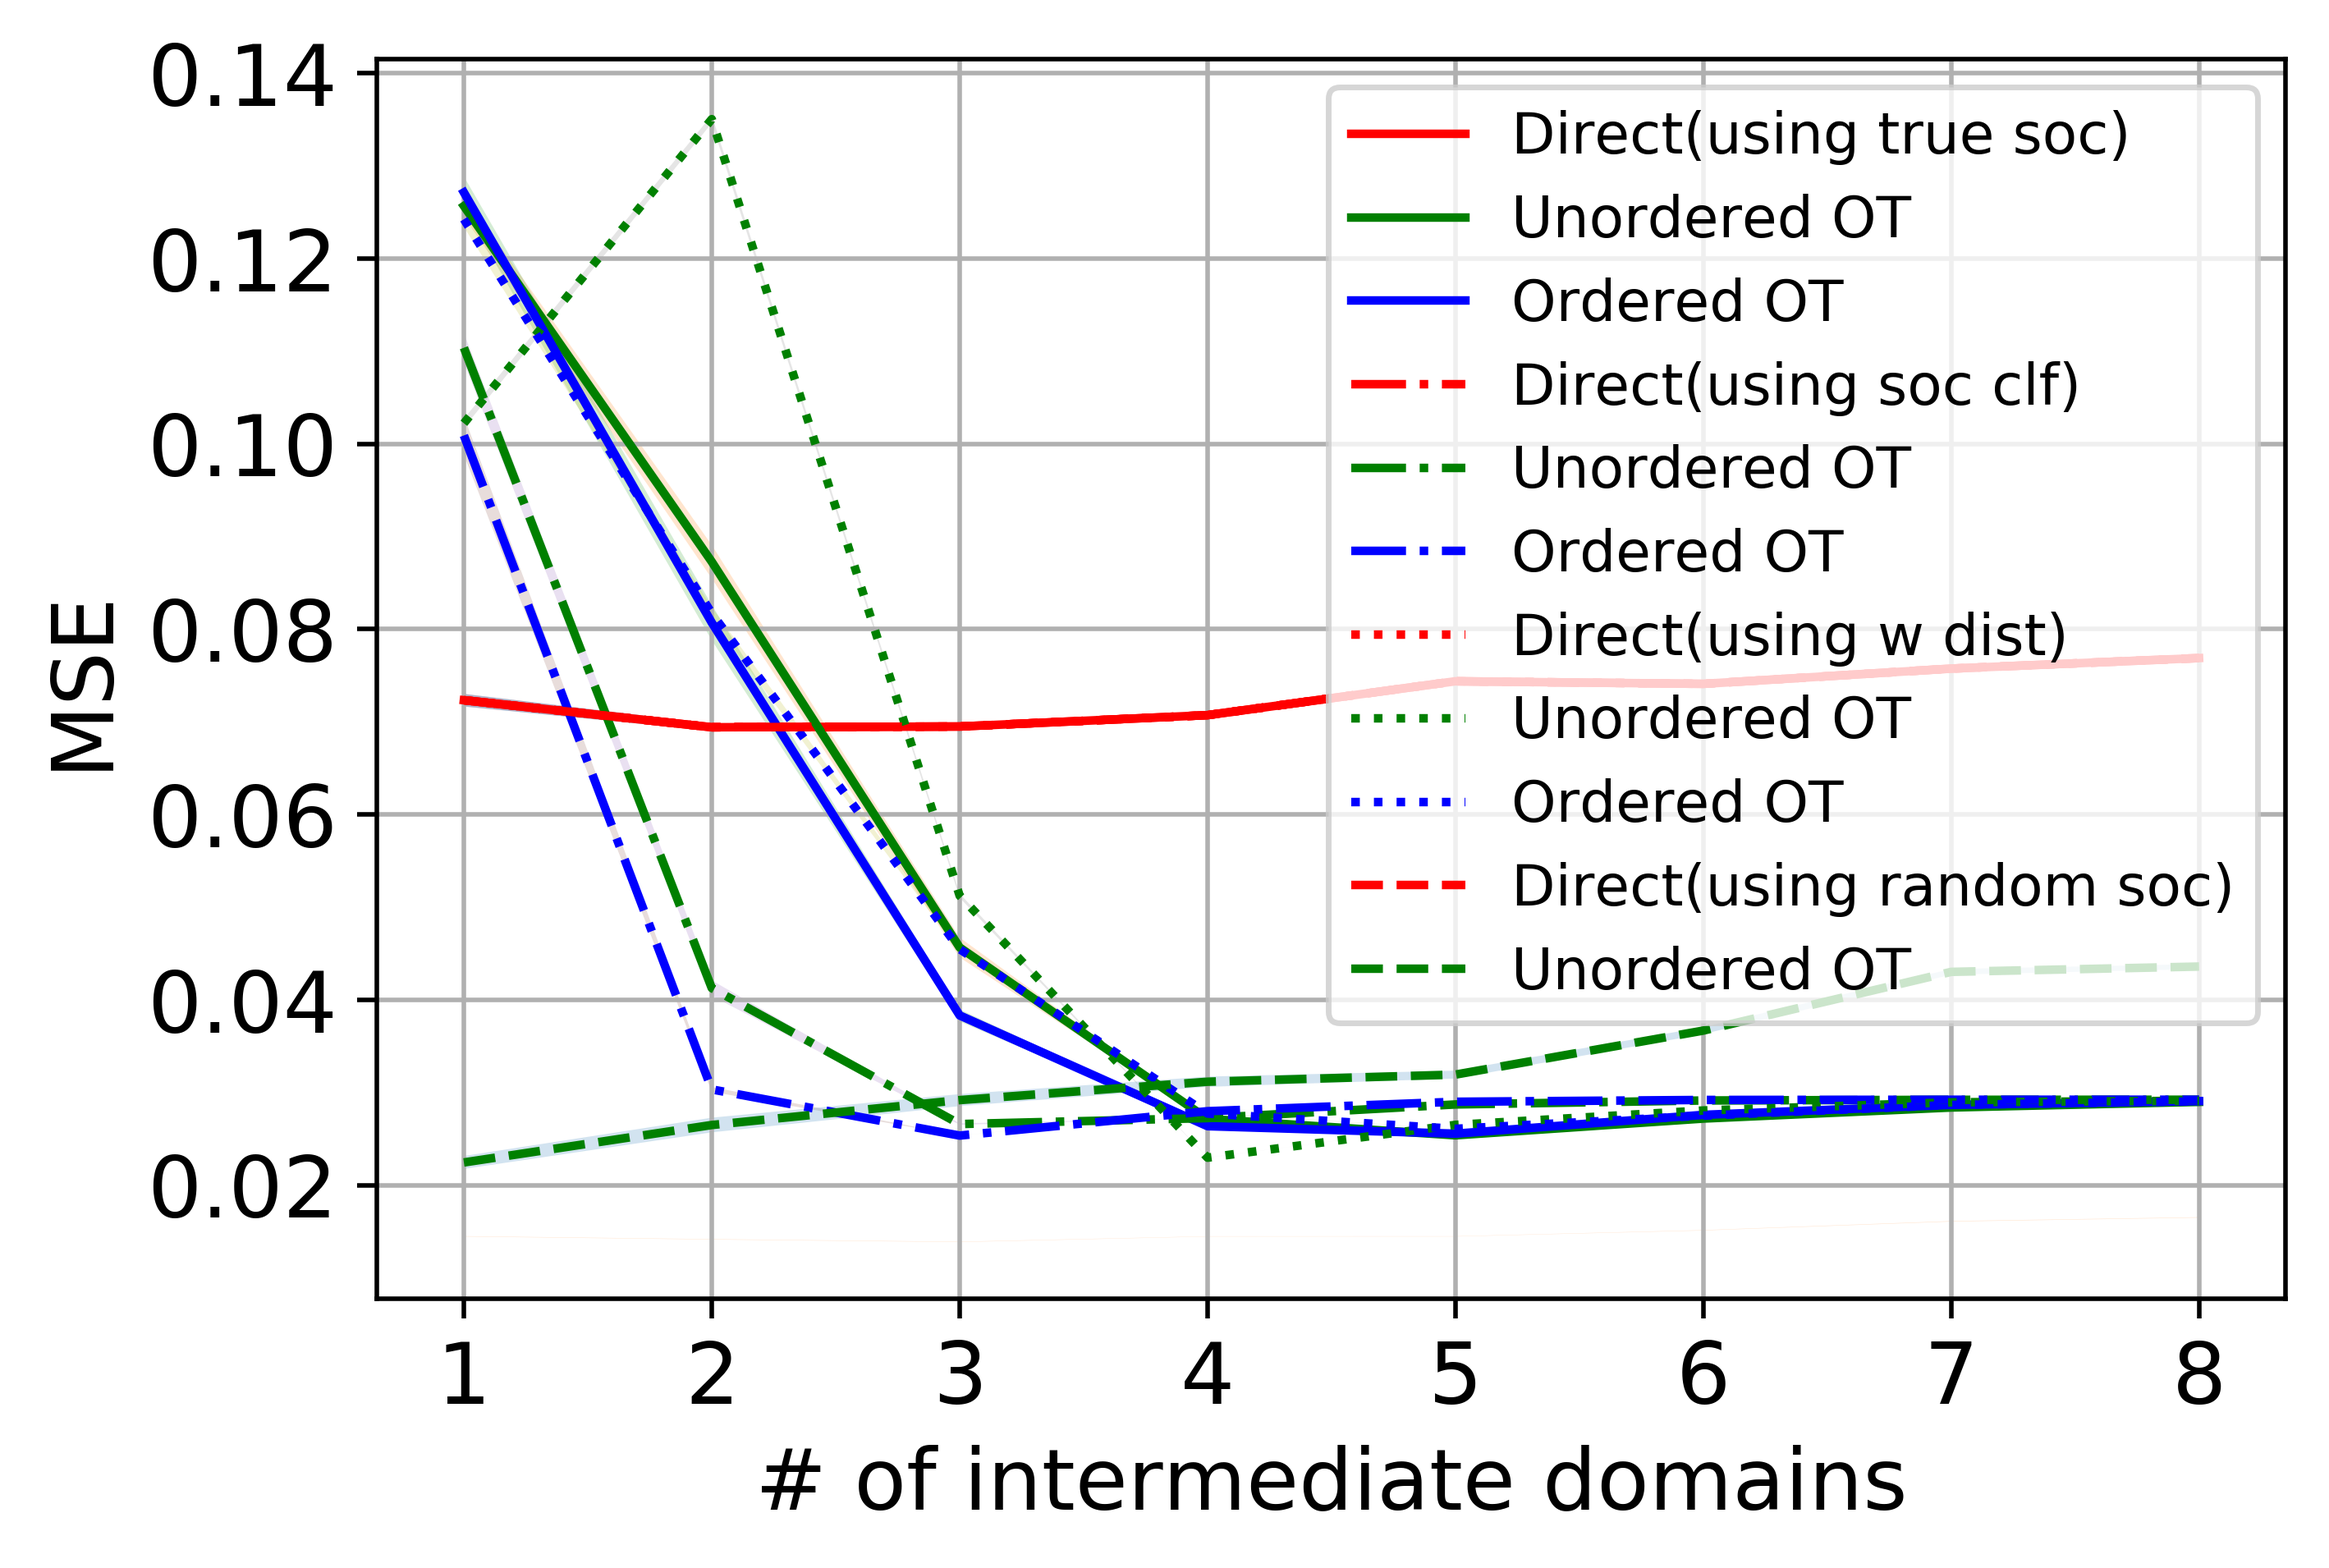
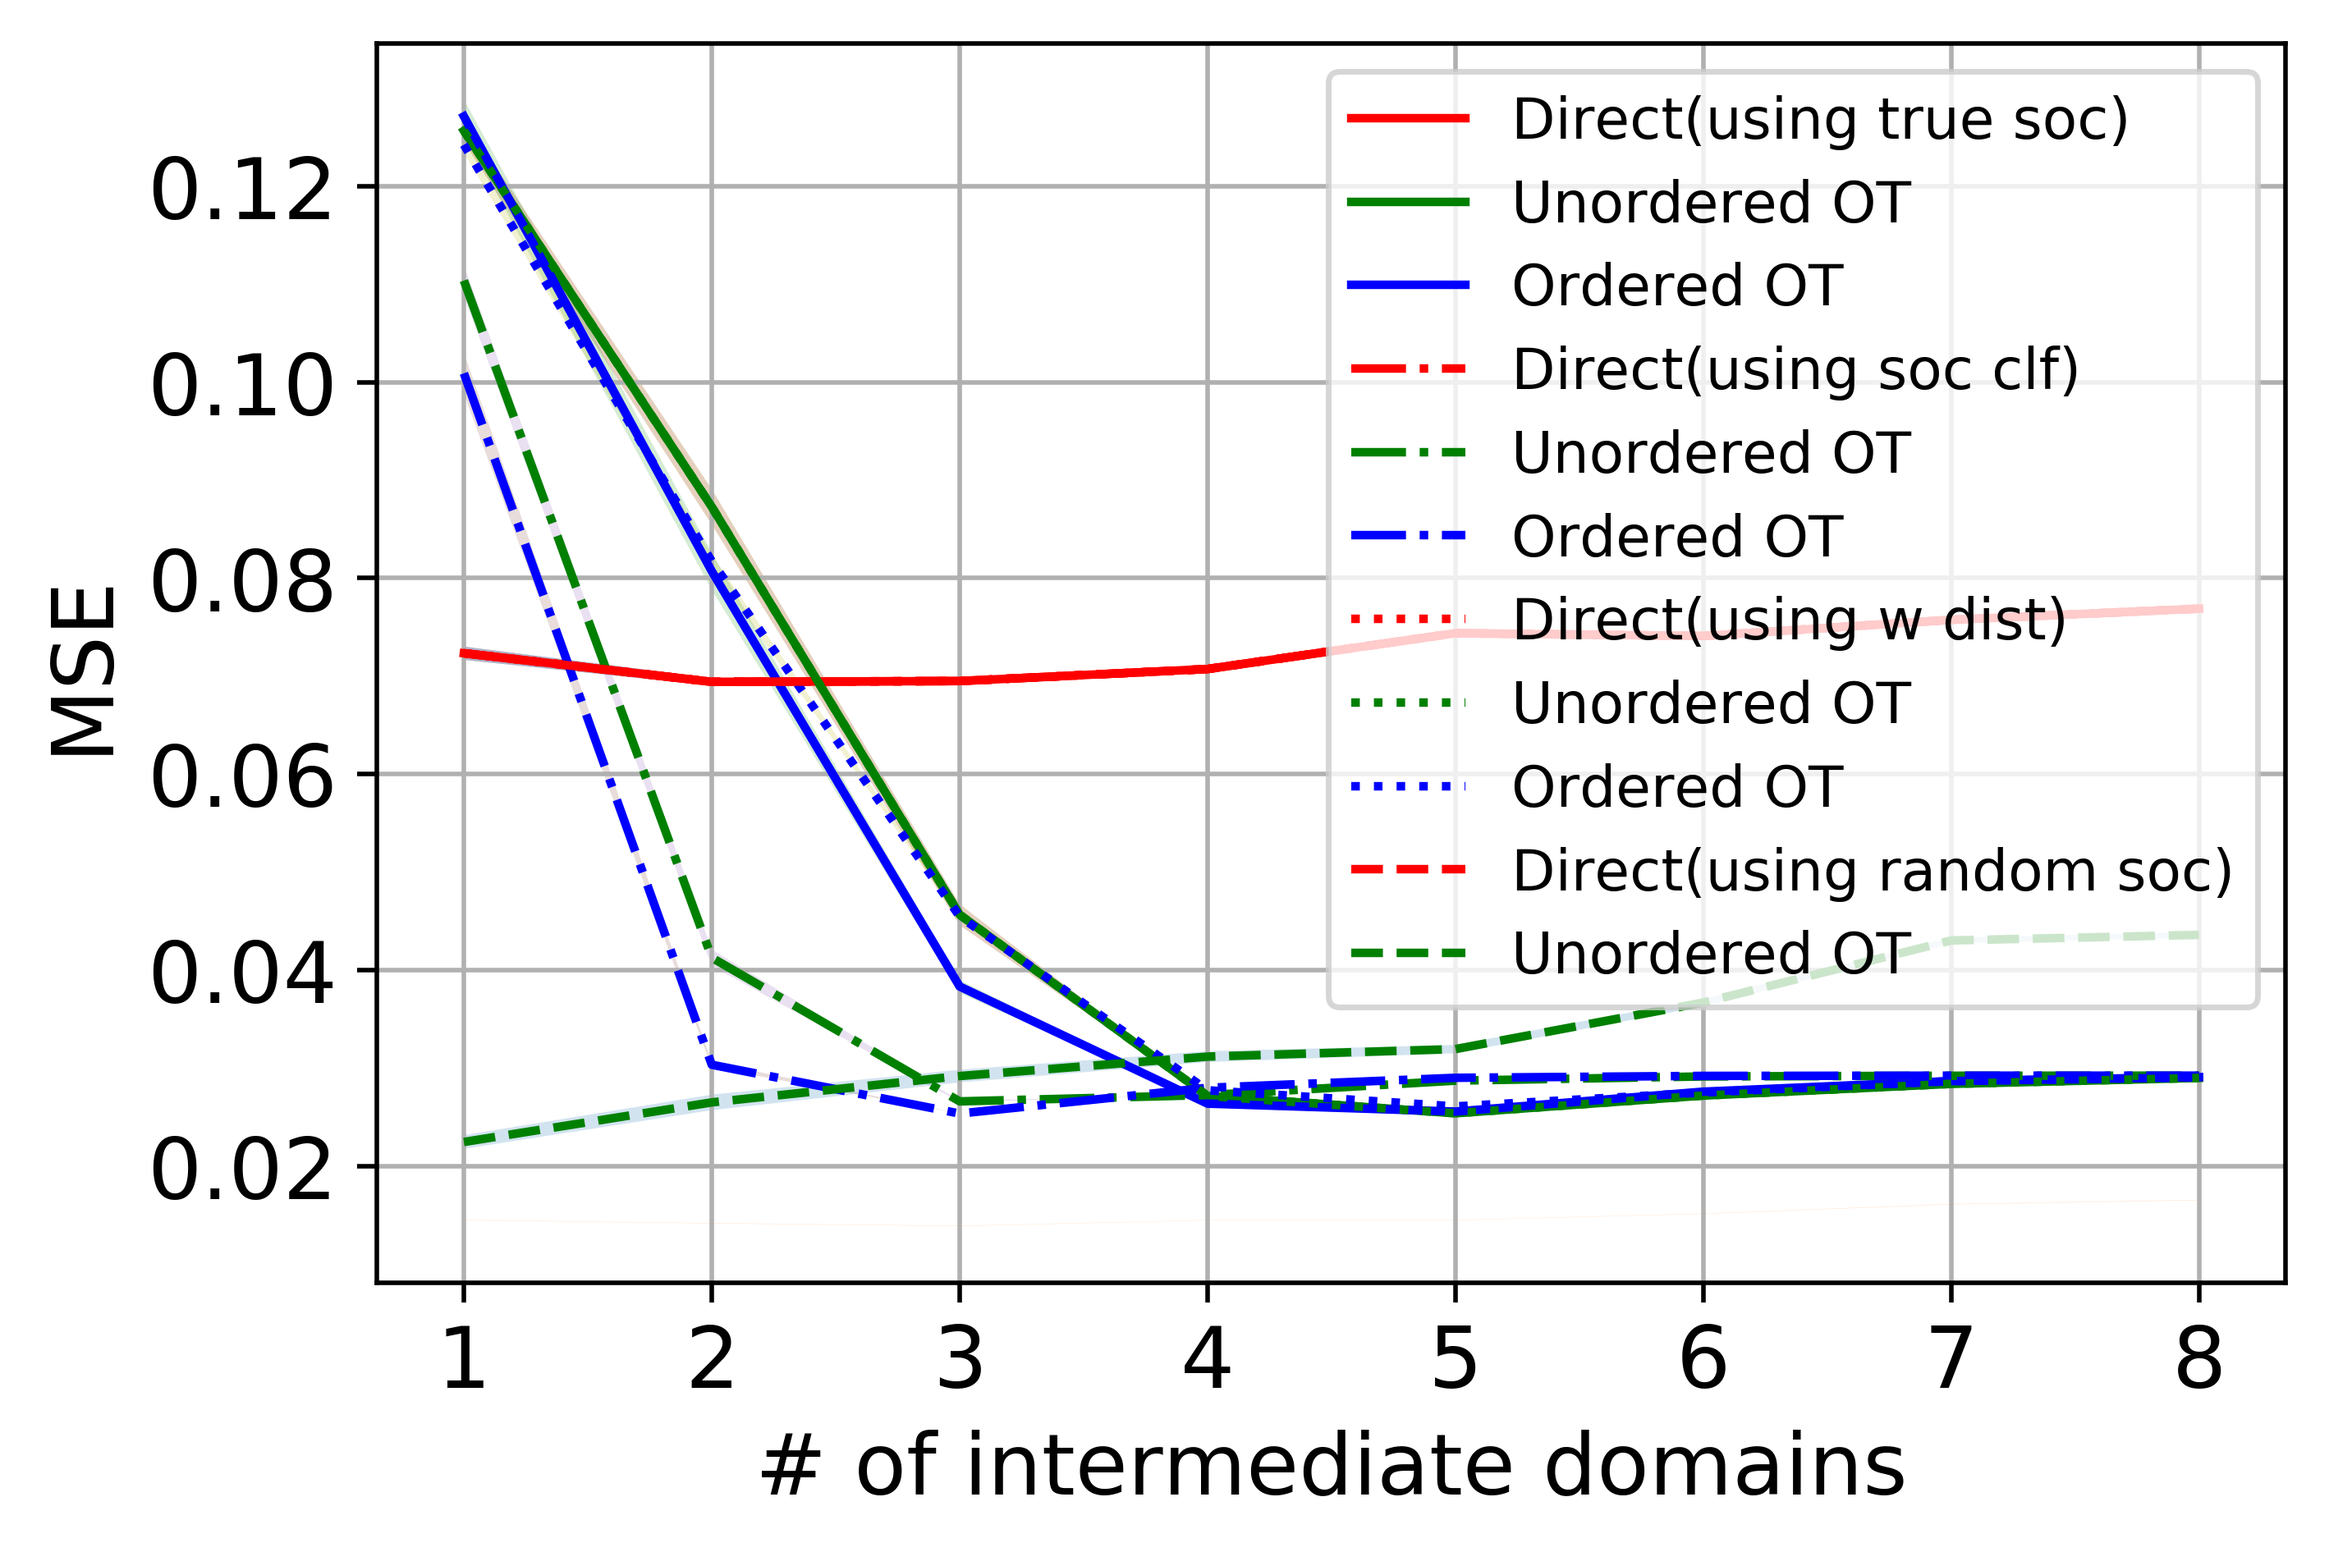
add mix soc

diff --git a/data.py b/data.py
@@ -245,13 +245,24 @@ def load_battery_data_split(n_samples_source = 67, n_samples_targets = 10, time_
     Xt_all_domain = []
     yt_all_domain = []
 
-    for i in [10, 15, 20, 25, 30, 35, 40, 45, 50]:
+    Xt_all_domain_mix = []
+    yt_all_domain_mix = []
+
+    time_all_list = [10, 15, 20, 25, 30, 35, 40, 45, 50]
+
+    for idx, i in enumerate(time_all_list):
 
         if i == time_series[-1]:
             continue
 
         Xt_true = xt0[yt0 == i]
         yt_true = yt_value[yt0 == i]
+
+        Xt_before = xt0[yt0 == time_all_list[idx - 1]] if idx > 0 else []
+        yt_before = yt_value[yt0 == time_all_list[idx - 1]] if idx > 0 else []
+
+        xt_after = xt0[yt0 == time_all_list[idx + 1]] if idx < len(time_all_list) - 1 else []
+        yt_after = yt_value[yt0 == time_all_list[idx + 1]] if idx < len(time_all_list) - 1 else []
         rand = np.arange(Xt_true.shape[0])
         if shuffle_or_not:
             np.random.seed(random_seed * i)
@@ -264,6 +275,73 @@ def load_battery_data_split(n_samples_source = 67, n_samples_targets = 10, time_
         Xt_all_domain.append(X)
         yt_all_domain.append(y)
 
+        if idx > 0 and idx < len(time_all_list) - 1:
+            t_cnt = int(n_samples_targets * 0.6)
+            t_before = int(n_samples_targets * 0.2)
+            t_after = int(n_samples_targets * 0.2)
+            rand1 = np.arange(Xt_true.shape[0])
+            rand2 = np.arange(Xt_before.shape[0])
+            rand3 = np.arange(xt_after.shape[0])
+
+            if shuffle_or_not:
+                np.random.seed(random_seed * i)
+                np.random.shuffle(rand1)
+                np.random.shuffle(rand2)
+                np.random.shuffle(rand3)
+            
+            x0 = Xt_true[rand1[:t_cnt]]
+            y0 = yt_true[rand1[:t_cnt]]
+            x1 = Xt_before[rand2[:t_before]]
+            y1 = yt_before[rand2[:t_before]]
+            x2 = xt_after[rand3[:t_after]]
+            y2 = yt_after[rand3[:t_after]]
+            X = np.concatenate((x0, x1, x2))
+            y = np.concatenate((y0, y1, y2))
+
+            Xt_all_domain_mix.append(X)
+            yt_all_domain_mix.append(y)
+        
+        elif idx == 0:
+            t_cnt = int(n_samples_targets * 0.6)
+            t_after = int(n_samples_targets * 0.4)
+            rand1 = np.arange(Xt_true.shape[0])
+            rand2 = np.arange(xt_after.shape[0])
+            
+            if shuffle_or_not:
+                np.random.seed(random_seed * i)
+                np.random.shuffle(rand1)
+                np.random.shuffle(rand2)
+            
+            x0 = Xt_true[rand1[:t_cnt]]
+            y0 = yt_true[rand1[:t_cnt]]
+            x1 = xt_after[rand2[:t_after]]
+            y1 = yt_after[rand2[:t_after]]
+            X = np.concatenate((x0, x1))
+            y = np.concatenate((y0, y1))
+
+            Xt_all_domain_mix.append(X)
+            yt_all_domain_mix.append(y)
+        
+        else:
+            t_cnt = int(n_samples_targets * 0.6)
+            t_before = int(n_samples_targets * 0.4)
+            rand1 = np.arange(Xt_true.shape[0])
+            rand2 = np.arange(Xt_before.shape[0])
+
+            if shuffle_or_not:
+                np.random.seed(random_seed * i)
+                np.random.shuffle(rand1)
+                np.random.shuffle(rand2)
+            
+            x0 = Xt_true[rand1[:t_cnt]]
+            y0 = yt_true[rand1[:t_cnt]]
+            x1 = Xt_before[rand2[:t_before]]
+            y1 = yt_before[rand2[:t_before]]
+            X = np.concatenate((x0, x1))
+            y = np.concatenate((y0, y1))
+
+            Xt_all_domain_mix.append(X)
+            yt_all_domain_mix.append(y)
 
     for i in time_series:
 
@@ -315,7 +393,7 @@ def load_battery_data_split(n_samples_source = 67, n_samples_targets = 10, time_
         Xt_random.append(X3)
         yt_random.append(y3) 
 
-    return Xs, ys, Xt_clf, yt_clf, Xt_all, yt_all, acc, Xt_, yt_, Xt_random, yt_random, Xt_all_domain, yt_all_domain
+    return Xs, ys, Xt_clf, yt_clf, Xt_all, yt_all, acc, Xt_, yt_, Xt_random, yt_random, Xt_all_domain, yt_all_domain, Xt_all_domain_mix, yt_all_domain_mix
 
 
 def load_seq_two_moon_data(n_samples_source, n_samples_targets, time_length, noise=.1, max_angle=90):
@@ -346,7 +424,7 @@ def rotate_2d(X, theta):
 Xs, ys, Xt, yt, angles = load_seq_two_moon_data(150, 150, 10, max_angle=90, noise=0.1)
 Xs1, ys1, Xt1, yt1, Xt_all, yt_all = load_battery_data()
 # Xs2, ys2, Xt2, yt2, Xtest, ytest = load_mnist_data(dir_path='/Users/liuhanbing/Desktop/code/RotNIST/data/')
-Xs, ys, Xt, yt, Xt_all, yt_all, acc, Xt_, yt_, Xt_random, yt_random, Xt_all_domain, yt_all_domain = load_battery_data_split(time_series=[10, 25, 30, 50])
+Xs, ys, Xt, yt, Xt_all, yt_all, acc, Xt_, yt_, Xt_random, yt_random, Xt_all_domain, yt_all_domain, _, _ = load_battery_data_split(time_series=[10, 25, 30, 50])
 # print(Xtest[0].shape)
 
 # print(ys.shape)

diff --git a/main.py b/main.py
@@ -24,9 +24,13 @@ def test_cdot_methods(methods, time_reg_vector, n_samples_source, n_samples_targ
     
     # Xs, ys, Xt, yt, Xt_all, yt_all = load_battery_data(n_samples_source, n_samples_targets, time_length, True)
     # Xs, ys, Xt, yt, Xt_all, yt_all = load_battery_data_random(n_samples_source, n_samples_targets, time_series, shuffle_or_not = True, random_seed = random_seed)
-    Xs, ys, Xt, yt, Xt_all, yt_all, acc, Xt_true, yt_true, Xt_random, yt_random, Xt_all_domain, yt_all_domain = load_battery_data_split(n_samples_source, n_samples_targets, time_series, shuffle_or_not = True, random_seed = random_seed, train_set = 20)
+    Xs, ys, Xt, yt, Xt_all, yt_all, acc, Xt_true, yt_true, Xt_random, yt_random, Xt_all_domain, yt_all_domain, Xt_all_domain_mix, yt_all_domain_mix = load_battery_data_split(n_samples_source, n_samples_targets, time_series, shuffle_or_not = True, random_seed = random_seed, train_set = 20)
 
-    if sort_method == 'w_dis':
+    if sort_method == 'w_dis' or sort_method == 'mix':
+        if sort_method == 'mix':
+            Xt_all_domain = Xt_all_domain_mix
+            yt_all_domain = yt_all_domain_mix
+
         m = ot.dist(Xs, Xt_true[-1], metric='euclidean')
         m /= m.max()
         n1 = Xs.shape[0]
@@ -94,25 +98,34 @@ def test_cdot_methods(methods, time_reg_vector, n_samples_source, n_samples_targ
                 Xt = [x for _, x in sorted(zip(w1, Xt1), key=lambda x1: x1[0])]
                 yt = [x for _, x in sorted(zip(w1, yt1), key=lambda x1: x1[0])]
 
-        if if_sort == 0:
+            Xt.append(Xt_true[-1])
+            yt.append(yt_true[-1])
 
-            x_sample = []
-            y_sample = []
-            for i in range(t):
-                np.random.seed(1 * i)
-                rand = np.random.choice(len(Xt_all_domain), 1)
-                x_sample_per = np.array(Xt_all_domain[rand[0]])
-                y_sample_per = np.array(yt_all_domain[rand[0]])
-                
-                x_sample.append(x_sample_per)
-                y_sample.append(y_sample_per)
+        if if_sort == 0:
+            if sort_method == 'w_dis':
+                Xt = Xt_true
+                yt = yt_true
+            else:
+                rand = np.arange(len(Xt_all_domain))
+                np.random.seed(random_seed)
+                np.random.shuffle(rand)
+
+                x_sample = []
+                y_sample = []
+                for i in range(t):
+                    x_sample_per = np.array(Xt_all_domain[rand[i]])
+                    y_sample_per = np.array(yt_all_domain[rand[i]])
+                    
+                    x_sample.append(x_sample_per)
+                    y_sample.append(y_sample_per)
 
                 Xt = x_sample
                 yt = y_sample
 
-        Xt.append(Xt_true[-1])
-        yt.append(yt_true[-1])
-    
+                Xt.append(Xt_true[-1])
+                yt.append(yt_true[-1])
+            
+
     if sort_method == 'soc':
         Xt = Xt_true
         yt = yt_true
@@ -178,8 +191,9 @@ def test_cdot_methods(methods, time_reg_vector, n_samples_source, n_samples_targ
 if __name__ == '__main__':
     # sort_method = 'soc'
     # sort_method = 'clf'
-    sort_method = 'w_dis'
+    # sort_method = 'w_dis'
     # sort_method = 'random'
+    sort_method = 'mix'
     data = []
     for t in range(8):
         # # of target and intermediate domains
@@ -193,7 +207,7 @@ if __name__ == '__main__':
 
         for if_sort in sort_or_not:
             print("----------- sort or not: {} ------------".format(if_sort))
-            N_RUNS = 1
+            N_RUNS = 10
 
             # clf = KNeighborsClassifier(n_neighbors=1)
             # clf = ensemble.RandomForestRegressor(n_estimators=4)
@@ -216,7 +230,7 @@ if __name__ == '__main__':
 
             clf_acc = []
 
-            for sd in range(2):
+            for sd in range(100):
                 print("#epoch {}".format(sd))
                 np.random.seed(sd)
                 # time = np.random.randint(1, 10)
@@ -324,6 +338,6 @@ if __name__ == '__main__':
                     'var_direct': var_per_epoch_loss_direct, 'var_unorder': var_per_epoch_loss_unorder, 'var_order': var_per_epoch_loss_order})
 
     dataframe = pd.DataFrame(data)
-    dataframe.to_csv("soc_{}_only_sametarget_ssh_{}_2.csv".format(sort_method, target), index=False, sep=',')    
+    dataframe.to_csv("soc_{}_sametarget_ssh_{}.csv".format(sort_method, target), index=False, sep=',')    
 
         
